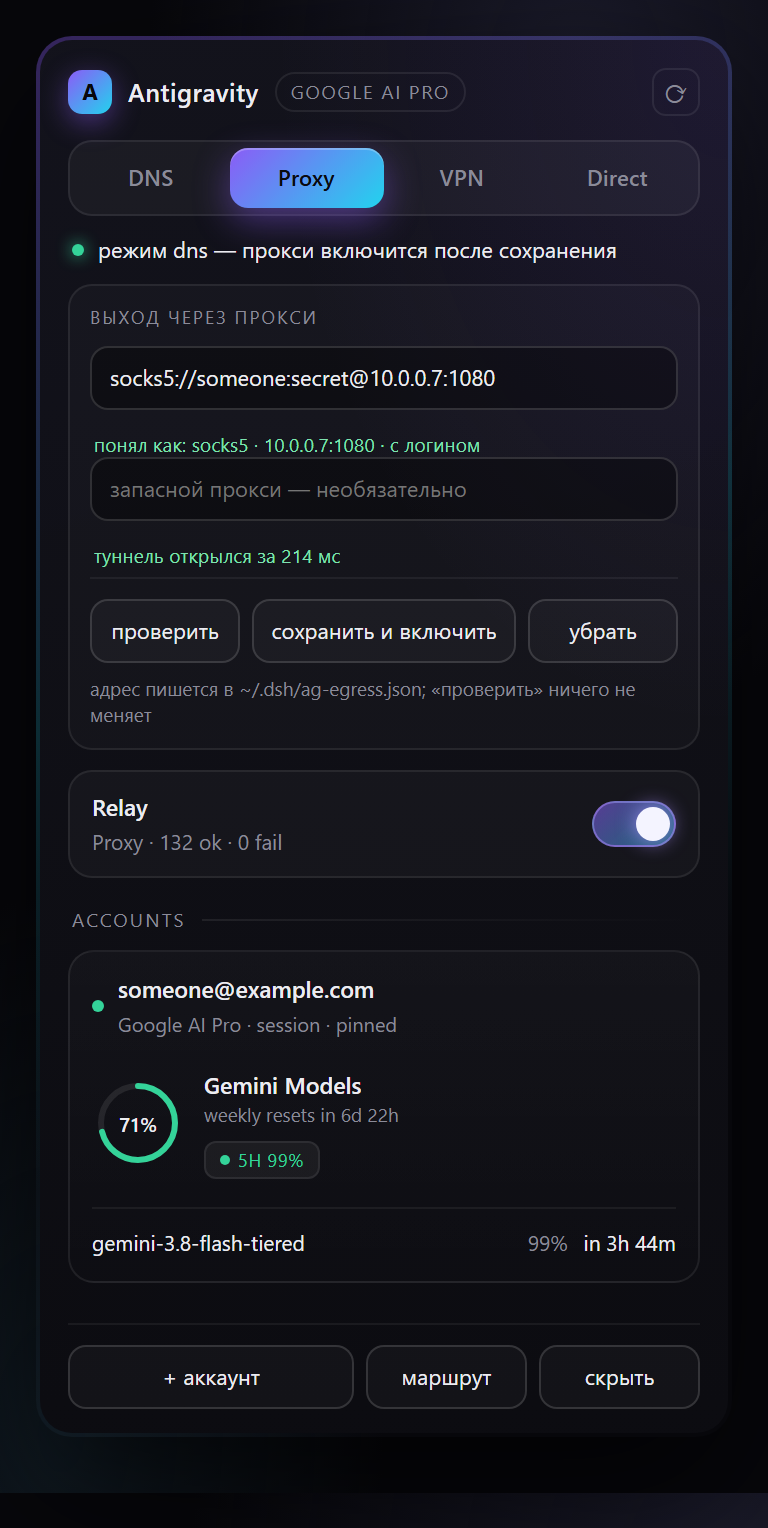
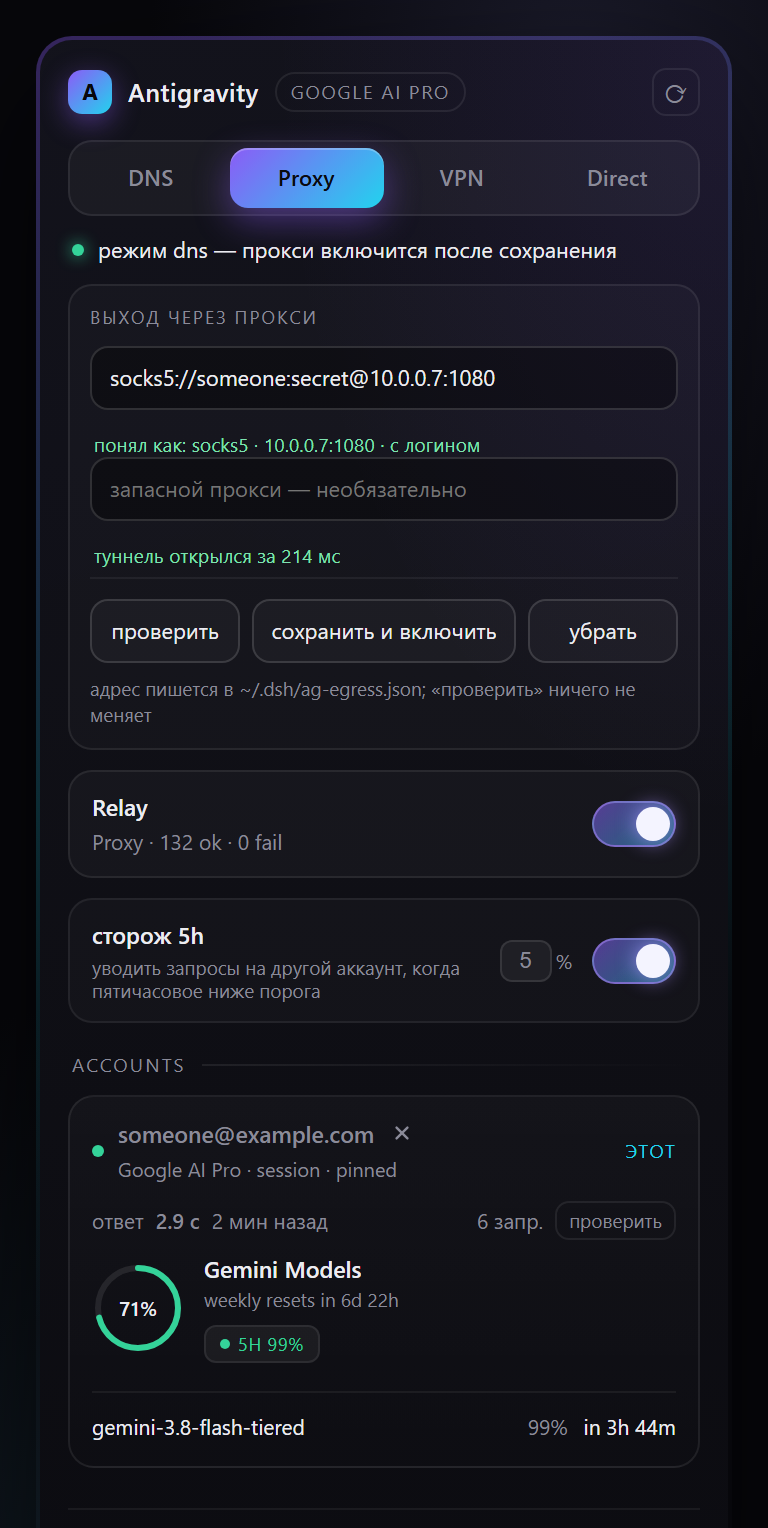
The five-hour guard is a setting now, with an off switch and a movable threshold
It is the one piece of routing that can stand between a person and a working account, and it is built on someone else's accounting. That makes it a preference, not a law.

- rotation {enabled, threshold} lives in the account store and survives restarts: no environment variable to remember
- POST /accounts/rotation sets either field; /accounts and /limits report the current pair
- orderedAccounts reads the threshold instead of the constant, and with the guard off the pin simply wins: nothing is demoted for being low
- the panel shows 'сторож 5h' with a percent field above the account list, so the rule can be moved or muted in the same place the accounts are read
- docs/quotas.md explains both states and what actually changes between them

diff --git a/plugins/quota-overlay/client.js b/plugins/quota-overlay/client.js
@@ -125,6 +125,15 @@ window.__ModuleLoader__.load({
 	animation:agq-rise .3s cubic-bezier(.2,.9,.25,1) both;transition:border-color .18s,transform .18s,box-shadow .18s}
 .agq .card:hover{border-color:rgba(255,255,255,.16);transform:translateY(-1px);
 	box-shadow:0 8px 24px rgba(0,0,0,.35)}
+.agq .guard{display:flex;align-items:center;gap:10px;margin-top:10px;padding:9px 11px;border-radius:12px;border:1px solid rgba(255,255,255,.07);background:rgba(255,255,255,.025);transition:opacity .18s}
+.agq .guard.off{opacity:.62}
+.agq .guard .txt{flex:1;min-width:0}
+.agq .guard .txt b{display:block;font-size:11.5px;font-weight:600}
+.agq .guard .txt span{display:block;font-size:9.5px;color:var(--muted);margin-top:2px;line-height:1.25}
+.agq .guard .num{display:flex;align-items:center;gap:2px;font-size:10px;color:var(--muted)}
+.agq .guard .num input{width:26px;padding:3px 0;text-align:center;font-size:11px;font-variant-numeric:tabular-nums;color:var(--fg);background:rgba(255,255,255,.05);border:1px solid rgba(255,255,255,.1);border-radius:6px;outline:none}
+.agq .guard .num input:focus{border-color:rgba(124,156,255,.5)}
+.agq .guard .num input:disabled{opacity:.45}
 .agq .card .lat{display:flex;align-items:center;gap:6px;margin-top:7px;font-size:10.5px;color:var(--muted)}
 .agq .card .lat b{font-weight:600;color:var(--fg);font-variant-numeric:tabular-nums}
 .agq .card .lat b.none{color:var(--muted);font-weight:500}
@@ -1062,6 +1071,39 @@ window.__ModuleLoader__.load({
 				load(true);
 			};
 
+			// The guard is a judgement about Google's accounting, so it has an off switch
+			// and a threshold the person can move.
+			const rotation = (data && data.rotation) || { enabled: true, threshold: 0.05 };
+			const [thresholdText, setThresholdText] = React.useState(null);
+			const [guardBusy, setGuardBusy] = React.useState(false);
+			const saveRotation = async (patch) => {
+				setGuardBusy(true);
+				try {
+					const res = await fetch(BRIDGE + "/accounts/rotation", {
+						method: "POST",
+						headers: { "content-type": "application/json" },
+						body: JSON.stringify(patch)
+					});
+					const json = await res.json().catch(() => ({}));
+					if (json && json.ok) setNote(json.rotation.enabled ? "сторож включён" : "сторож выключен");
+					else setNote("мост не принял настройку");
+				} catch {
+					setNote("мост не отвечает");
+				}
+				setThresholdText(null);
+				setGuardBusy(false);
+				load(true);
+			};
+			const commitThreshold = () => {
+				if (thresholdText === null) return;
+				const pct = Number(thresholdText.replace(",", "."));
+				if (!Number.isFinite(pct) || pct < 0 || pct > 100) {
+					setThresholdText(null);
+					return;
+				}
+				saveRotation({ threshold: pct / 100 });
+			};
+
 			const [checking, setChecking] = React.useState(null);
 			const checkAccount = async (id) => {
 				setChecking(id);
@@ -1145,6 +1187,51 @@ h(Transport, {
 									onToggle: toggleRelay,
 									onPatch: patch
 								}),
+								h(
+									"div",
+									{ className: "guard" + (rotation.enabled ? "" : " off") },
+									h(
+										"div",
+										{ className: "txt" },
+										h("b", null, "сторож 5h"),
+										h(
+											"span",
+											null,
+											rotation.enabled
+												? "уводить запросы на другой аккаунт, когда пятичасовое ниже порога"
+												: "выключен — аккаунты идут по порядку, пин всегда первый"
+										)
+									),
+									h(
+										"label",
+										{ className: "num", title: "порог пятичасового окна, %" },
+										h(
+											"input",
+											{
+												type: "text",
+												inputMode: "numeric",
+												value: thresholdText !== null ? thresholdText : String(Math.round(rotation.threshold * 100)),
+												onChange: (event) => setThresholdText(event.target.value.replace(/[^0-9.,]/g, "")),
+												onBlur: commitThreshold,
+												onKeyDown: (event) => {
+													if (event.key === "Enter") event.currentTarget.blur();
+												},
+												disabled: !rotation.enabled || guardBusy
+											}
+										),
+										h("span", null, "%")
+									),
+									h(
+										"button",
+										{
+											className: "switch" + (rotation.enabled ? " on" : ""),
+											onClick: () => saveRotation({ enabled: !rotation.enabled }),
+											disabled: guardBusy,
+											title: rotation.enabled ? "выключить сторожа" : "включить сторожа"
+										},
+										h("i")
+									)
+								),
 								h("div", { className: "sect" }, "accounts"),
 								accounts.length
 									? accounts.map((account, index) =>

diff --git a/bridge/accounts.js b/bridge/accounts.js
@@ -411,12 +411,13 @@ export function orderedAccounts(model) {
   const waiting = scored.filter((s) => s.cooling).sort((a, b) => a.until - b.until);
   const ordered = [...live, ...waiting].map((s) => s.acc);
   const pinned = current.pinned;
+  const rotation = rotationOf(current);
   if (pinned) {
     const index = ordered.findIndex((acc) => acc.id === pinned);
     const mine = scored.find((s) => s.acc.id === pinned);
     // The pin means "prefer this one", not "burn this one to zero while another
-    // account sits above 5%". Below the floor the order stands as scored.
-    const floor = mine && mine.fiveHour !== null && mine.fiveHour <= EXHAUSTED_AT;
+    // account sits above the floor". With the guard off, the pin simply wins.
+    const floor = rotation.enabled && mine && mine.fiveHour !== null && mine.fiveHour <= rotation.threshold;
     if (index > 0 && !floor) ordered.unshift(...ordered.splice(index, 1));
     else if (index > 0) log(`accounts: ${pinned} is at ${Math.round(mine.fiveHour * 100)}% of its 5h window, not promoting it`);
   }
@@ -563,6 +564,7 @@ export async function limitsReport({ force = false } = {}) {
   return {
     accounts,
     pinned: current.pinned,
+    rotation: rotationOf(current),
     cooldowns: cooldownSnapshot(),
     updatedAt: Date.now(),
   };
@@ -578,6 +580,36 @@ export function removeAccount(id) {
   modelsCache.delete(id);
   saveStore();
   return true;
+}
+
+const ROTATION_DEFAULTS = { enabled: true, threshold: EXHAUSTED_AT };
+
+/**
+ * The five-hour guard is a guess about somebody else's accounting, and it is
+ * the one piece of routing that can stand between a person and a working
+ * account. So it is a setting with an off switch, not a law.
+ */
+export function rotationOf(current = loadStore()) {
+  const raw = current && current.rotation ? current.rotation : {};
+  const threshold = Number(raw.threshold);
+  return {
+    enabled: raw.enabled !== false,
+    threshold: Number.isFinite(threshold) && threshold >= 0 && threshold <= 1 ? threshold : ROTATION_DEFAULTS.threshold,
+  };
+}
+
+export function setRotation(patch = {}) {
+  const current = loadStore();
+  const now = rotationOf(current);
+  const next = {
+    enabled: patch.enabled === undefined ? now.enabled : Boolean(patch.enabled),
+    threshold: patch.threshold === undefined ? now.threshold : Math.min(1, Math.max(0, Number(patch.threshold))),
+  };
+  if (!Number.isFinite(next.threshold)) next.threshold = now.threshold;
+  current.rotation = next;
+  saveStore();
+  log(`rotation: guard ${next.enabled ? 'on' : 'off'}, threshold ${Math.round(next.threshold * 100)}%`);
+  return next;
 }
 
 export function setPinned(id) {

diff --git a/bridge/server.js b/bridge/server.js
@@ -35,7 +35,9 @@ import {
   recordLatency,
   removeAccount,
   setEnabled,
+  rotationOf,
   setPinned,
+  setRotation,
   startLogin,
   warmQuotaSummaries,
 } from './accounts.js';
@@ -194,7 +196,7 @@ async function handleAccountRoutes(req, res, url) {
       return sendJson(res, 200, await limitsReport({ force: url.searchParams.get('force') === '1' }));
     }
     if (req.method === 'GET' && url.pathname === '/accounts') {
-      return sendJson(res, 200, { accounts: listAccounts(), pinned: loadStore().pinned });
+      return sendJson(res, 200, { accounts: listAccounts(), pinned: loadStore().pinned, rotation: rotationOf(loadStore()) });
     }
     if (req.method === 'POST' && url.pathname === '/accounts/login') {
       return sendJson(res, 200, startLogin());
@@ -217,6 +219,10 @@ async function handleAccountRoutes(req, res, url) {
     if (req.method === 'POST' && url.pathname === '/accounts/check') {
       const body = await jsonBody(req).catch(() => ({}));
       return sendJson(res, 200, await probeAccount(body.id));
+    }
+    if (req.method === 'POST' && url.pathname === '/accounts/rotation') {
+      const body = await jsonBody(req).catch(() => ({}));
+      return sendJson(res, 200, { ok: true, rotation: setRotation(body) });
     }
     if (req.method === 'POST' && url.pathname === '/accounts/enabled') {
       const body = await jsonBody(req).catch(() => ({}));

diff --git a/docs/quotas.md b/docs/quotas.md
@@ -94,6 +94,27 @@ Two limits worth knowing: a probe waits up to `AG_PROBE_TIMEOUT_MS` (30 s) and t
 (default 180 000) refreshes the five-hour numbers in the background, so ordering still
 honours the 5% rule when no panel is open.
 
+### Turning the guard off
+
+The five-hour rule is an opinion about somebody else's accounting — and it is the one piece of
+routing that can stand between you and a working account. So it is a setting, not a law:
+
+```bash
+curl -s localhost:8787/accounts/rotation -H 'authorization: Bearer local-bridge' \
+  -H 'content-type: application/json' -d '{"enabled":false}'
+# {"ok":true,"rotation":{"enabled":false,"threshold":0.05}}
+```
+
+The same switch is in the panel, above the account list: `сторож 5h` with a threshold field in
+percent. With the guard **off**, accounts are still ordered by their five-hour reading and the
+pin always wins — nothing gets demoted for being low. With it **on**, the pinned account stops
+being promoted once its five-hour window is at or below the threshold, and the request goes to
+whoever has more room.
+
+That is the whole point of the switch: if Google's numbers look wrong for your accounts, turn
+the guard off and keep the pin. State lives in `~/.dsh/profiles/web/plugins/ag-limits/accounts.json`
+under `rotation`, so it survives restarts and needs no environment variable.
+
 ## In the response
 
 `/limits` keeps its shape and adds one field per account:
